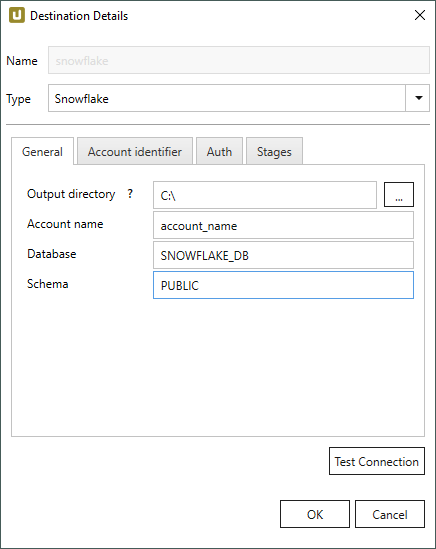
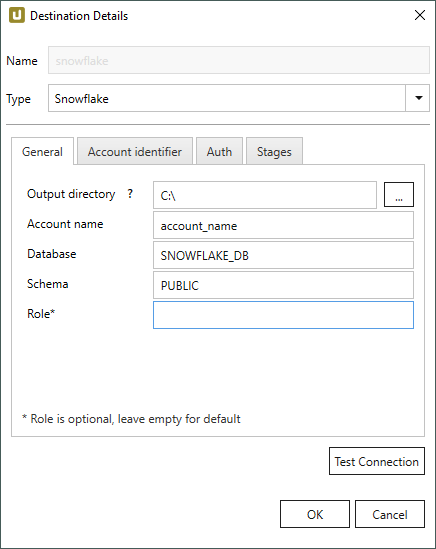
snowflake role

Changed region(s): [[0.3578, 0.5264, 0.9541, 0.5574], [0.0596, 0.7432, 0.5665, 0.7741], [0.0596, 0.5574, 0.1193, 0.5883]]

diff --git a/content/_de/xtract-universal/destinationen/snowflake.md b/content/_de/xtract-universal/destinationen/snowflake.md
@@ -52,7 +52,6 @@ Prozess während der Extraktion:
 Dieser Prozess (gzip + PUT command) wiederholt sich solange, bis die Extraktion abgeschlossen ist.<br>
 Das lokale Verzeichnis und der Staging-Bereich werden im Verlauf der Extraktion geleert, d.h., die erzeugten csv-Dateien werden wieder gelöscht.
 
-
 **Account Name**<br>
 Geben Sie den Kontonamen ein.
 Der Kontoname kann aus der Verbindungs-URL abgeleitet werden.<br>
@@ -64,6 +63,10 @@ Geben Sie den Namen der Datenbank ein.
 
 **Schema**<br>
 Geben Sie das Schema der Datenbank ein.
+
+**Role**<br>
+Geben Sie eine Benutzerrolle ein. 
+Wenn keine Benutzerrolle angegeben ist, wird die Standard-Benutzerrolle für die Verbindung zu Snowflake verwendet.
 
 #### Acount Identifier
 

diff --git a/content/_en/xtract-universal/destinations/snowflake.md b/content/_en/xtract-universal/destinations/snowflake.md
@@ -62,6 +62,9 @@ Enter the name of the Snowflake database.
 **Schema**<br>
 Enter the schema of the Snowflake database.
 
+**Role**<br>
+Enter a Snowflake user role. If no user role is entered, the default user role is used for the connection.
+
 
 #### Acount Identifier
 
